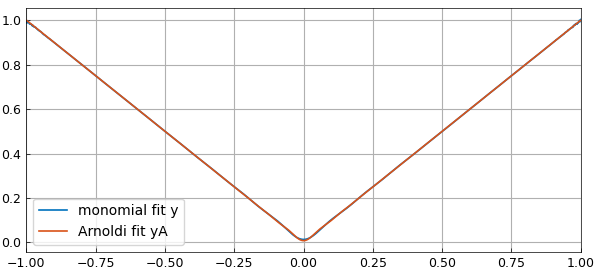
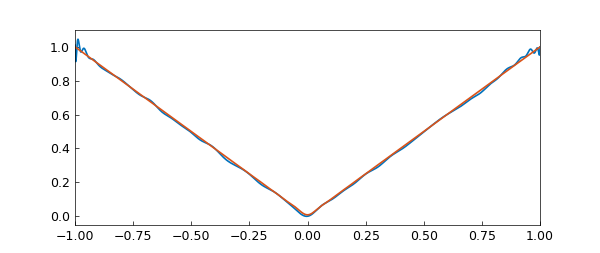
Run full degree80 Vandermonde and Arnoldi source example

diff --git a/examples/linalg/vandermonde_arnoldi.py b/examples/linalg/vandermonde_arnoldi.py
@@ -1,130 +1,111 @@
-"""Vandermonde with Arnoldi.
+"""Vandermonde with Arnoldi: source translation, full degree80.
 
-Translation of linalg/VandermondeArnoldi.m by Nick Trefethen
-(July 2020, after Brubeck-Nakatsukasa-Trefethen, SIAM Review 2021):
-Vandermonde matrices and quasimatrices are exponentially
-ill-conditioned; orthogonalizing on the fly with Arnoldi fixes
-polynomial least-squares fitting without changing the mathematics.
-
+Pablo Brubeck, Yuji Nakatsukasa, and Nick Trefethen, January2020.
+Chebfun7574c77680d7e82b79626300bf255498271a72df;
+example f4b9ea46cfc2f52f20a844627f4a74d0bb10098c.
 Original: https://www.chebfun.org/examples/linalg/VandermondeArnoldi.html
-Copyright by The University of Oxford and The Chebfun Developers.
+Copyright The University of Oxford and The Chebfun Developers.
 """
-import matplotlib
-
-matplotlib.use("Agg")
 import os
 import sys
 
+import jax.numpy as jnp
+import matplotlib
+
+matplotlib.use("Agg")
 import matplotlib.pyplot as plt
-import numpy as np
 
-sys.path.insert(0, os.path.join(os.path.dirname(__file__), '..', '..', 'src'))
+sys.path.insert(0, os.path.join(os.path.dirname(__file__), "..", "..", "src"))
 
-from chebfunjax.plotting import chebfun_style
+import chebfunjax as cj
+from chebfunjax.chebfun1d.chebfun import mldivide
+from chebfunjax.plotting import chebfun_style, matlab_plot
 from chebfunjax.plotting import save_chebfun_figure as _savefig
-from chebfunjax.utils.lebesgue import lebesgue_constant
 from chebfunjax.utils.quadrature import chebpts
 
-chebfun_style()
-_HERE = os.path.dirname(os.path.abspath(__file__))
-_IMG = os.path.join(_HERE, '..', '..', 'docs', 'images', 'linalg')
+_IMG = os.path.join(os.path.dirname(os.path.abspath(__file__)), "..", "..",
+                    "docs", "images", "linalg")
 
 
-# Continuous L2 inner products on [-1,1] realized by 400-point
-# Gauss-Legendre quadrature — exact for polynomials up to degree 799,
-# so every quantity below is the true continuous one.
-_GX, _GW = np.polynomial.legendre.leggauss(400)
+def _scalar(value):
+    # MATLAB one-element numeric assignment versus JAX rank-zero storage.
+    value = jnp.asarray(value)
+    if value.size != 1:
+        raise ValueError("Expected a scalar numeric result")
+    return value.reshape(())
 
 
-def _qm_vals(n):
-    """Value matrix of the monomial quasimatrix x^(0:n-1) on the
-    Gauss grid, and the weight vector."""
-    return _GX[:, None] ** np.arange(n)
+def _ans(value, scientific=True, name="ans"):
+    print(f"{name} =")
+    print(f"   {float(_scalar(value)):.4e}" if scientific
+          else f"    {float(_scalar(value)):.4f}")
 
 
-def _cond_qm(n):
-    A = _qm_vals(n)
-    return np.linalg.cond(np.sqrt(_GW)[:, None] * A)
+def polyfit(x, f, n):
+    A = x ** jnp.arange(n+1)
+    return mldivide(A, f)
+
+
+def polyval(c, s):
+    n = len(c)-1
+    B = s ** jnp.arange(n+1)
+    return B @ c
+
+
+def polyfitA(x, f, n):
+    Q = 1 + 0*x
+    H = jnp.zeros((n+1, n))
+    for k in range(n):
+        q = x * Q.extract_columns(k)
+        for j in range(k+1):
+            H = H.at[j, k].set(_scalar(Q.extract_columns(j).H @ q))
+            q = q - H[j, k] * Q.extract_columns(j)
+        H = H.at[k+1, k].set(_scalar(q.norm()))
+        Q = cj.Chebfun.horzcat([Q, q/H[k+1, k]])
+    return mldivide(Q, f), H
+
+
+def polyvalA(d, H, s):
+    W = 1 + 0*s
+    for k in range(H.shape[1]):
+        w = s * W.extract_columns(k)
+        for j in range(k+1):
+            w = w - H[j, k] * W.extract_columns(j)
+        W = cj.Chebfun.horzcat([W, w/H[k+1, k]])
+    return W @ d
 
 
 def run():
+    chebfun_style()
     os.makedirs(_IMG, exist_ok=True)
-
-    for m in (17, 33):
-        pts = np.asarray(chebpts(m))
-        V = np.vander(pts, increasing=False)
-        print("ans =")
-        print(f"   {np.linalg.cond(V):.4e}")
-    for m in (17, 33):
-        pts = np.asarray(chebpts(m))
-        A = pts[:, None] ** np.arange(m)
-        print("ans =")
-        print(f"   {np.linalg.cond(A):.4e}")
-
-    for m in (17, 33):
-        L = lebesgue_constant(np.asarray(chebpts(m)))
-        print(f"L{m-1} =")
-        print(f"    {float(L):.4f}")
-
-    for m in (17, 33):
-        print("ans =")
-        print(f"   {_cond_qm(m):.4e}")
-    for m in (17, 33):
-        pts = np.linspace(-1, 1, m)
-        print("ans =")
-        print(f"   {np.linalg.cond(np.vander(pts)):.4e}")
-
-    # ill-conditioned monomial least-squares fit of |x|, degree 80
-    n = 80
-    fvals = np.abs(_GX)
-    A = _qm_vals(n + 1)
-    sw = np.sqrt(_GW)
-    Qd, Rd = np.linalg.qr(sw[:, None] * A)
-    c = np.linalg.solve(Rd, Qd.T @ (sw * fvals))
-    xs = np.linspace(-1, 1, 1201)
-    y = (xs[:, None] ** np.arange(n + 1)) @ c
-    print("max(y) =")
-    print(f"    {np.max(y):.4f}")
-    print("norm(c,inf) =")
-    print(f"   {np.max(np.abs(c)):.4e}")
-
-    # Arnoldi version: orthogonalize the powers on the fly in the
-    # same continuous inner product
-    W = np.ones((len(_GX), 1))
-    H = np.zeros((n + 1, n))
-    for k in range(n):
-        q = _GX * W[:, k]
-        for j in range(k + 1):
-            H[j, k] = np.sum(_GW * W[:, j] * q)
-            q = q - H[j, k] * W[:, j]
-        H[k + 1, k] = np.sqrt(np.sum(_GW * q * q))
-        W = np.column_stack([W, q / H[k + 1, k]])
-    # d = Q\\f: weighted least squares (the first Arnoldi
-    # column is the unnormalized constant, as in MATLAB)
-    sww = np.sqrt(_GW)
-    d, *_ = np.linalg.lstsq(sww[:, None] * W, sww * fvals,
-                            rcond=None)
-    # evaluate the Arnoldi basis at plotting points via the recurrence
-    Wx = np.ones((len(xs), 1))
-    for k in range(n):
-        w = xs * Wx[:, k]
-        for j in range(k + 1):
-            w = w - H[j, k] * Wx[:, j]
-        Wx = np.column_stack([Wx, w / H[k + 1, k]])
-    yA = Wx @ d
-    print("yA endpoint values:",
-          f"{yA[0]:.6f} {yA[-1]:.6f}")
-    print("max(yA) =")
-    print(f"    {np.max(yA):.4f}")
-
-    fig, ax = plt.subplots(figsize=(9.0, 4.8))
-    ax.plot(xs, y, lw=1.2, label="monomial fit y")
-    ax.plot(xs, yA, lw=1.2, label="Arnoldi fit yA")
-    ax.legend()
-    ax.grid(True)
-    fig.set_facecolor("white")
-    fig.tight_layout()
-    _savefig(fig, os.path.join(_IMG, "VandermondeArnoldi_01.png"))
+    for count in (17, 33):
+        _ans(jnp.linalg.cond(jnp.vander(chebpts(count))))
+    for count in (17, 33):
+        _ans(jnp.linalg.cond(chebpts(count)[:, None] ** jnp.arange(count)))
+    for count in (17, 33):
+        _, constant = cj.lebesgue(chebpts(count), return_constant=True)
+        _ans(constant, scientific=False, name=f"L{count-1}")
+    x = cj.chebfun("x")
+    for count in (17, 33):
+        _ans(x.vander(count).cond())
+    for count in (17, 33):
+        _ans((x ** jnp.arange(count)).cond())
+    for count in (17, 33):
+        _ans(jnp.linalg.cond(jnp.vander(jnp.linspace(-1., 1., count))))
+    f = abs(x)
+    c = polyfit(x, f, 80)
+    y = polyval(c, x)
+    print("y =")
+    print(repr(y))
+    _ans(y.max()[1], scientific=False)
+    _ans(jnp.linalg.norm(c, ord=jnp.inf))
+    d, H = polyfitA(x, f, 80)
+    yA = polyvalA(d, H, x)
+    print("yA =")
+    print(repr(yA))
+    fig, ax = plt.subplots()
+    matlab_plot(cj.Chebfun.horzcat([y, yA]), ax=ax)
+    _savefig(fig, os.path.join(_IMG, "VandermondeArnoldi_01.png"), size=(600, 253))
     plt.close(fig)
 
 

diff --git a/docs/examples/linalg/VandermondeArnoldi.md b/docs/examples/linalg/VandermondeArnoldi.md
@@ -31,6 +31,8 @@ cond(vander(chebpts(33)))
 ```text
 ans =
    5.4282e+05
+ans =
+   6.8312e+11
 ```
 
 There isn't any real need to call the `vander` command. We could equally well have generated the numbers like this:
@@ -41,8 +43,6 @@ cond(chebpts(33).^(0:32))
 ```
 
 ```text
-ans =
-   6.8312e+11
 ans =
    5.4282e+05
 ans =
@@ -74,6 +74,8 @@ cond(vander(x,33))
 ```text
 ans =
    5.4803e+05
+ans =
+   6.2360e+11
 ```
 
 Again there was no need for the `vander` command:
@@ -84,6 +86,8 @@ cond(x.^(0:32))
 ```
 
 ```text
+ans =
+   5.4803e+05
 ans =
    6.2360e+11
 ```
@@ -98,6 +102,8 @@ cond(vander(linspace(-1,1,33)))
 ```text
 ans =
    9.9831e+06
+ans =
+   5.2719e+14
 ```
 
 If we try to do interpolation or least-squares fitting with these ill-conditioned matrices or quasimatrices, we quickly run into trouble at larger values of $n$. In MATLAB, the traditional codes for computing a polynomial and then evaluating it are `polyfit` and `polyval`, whose essences (with the columns ordered by increasing degrees) look like this:
@@ -125,6 +131,14 @@ c = polyfit(x,f,80);
 y = polyval(c,x)
 ```
 
+```text
+y =
+   chebfun column (1 smooth piece)
+       interval       length     endpoint values
+[      -1,       1]       69         1        1
+vertical scale =   1
+```
+
 We'll plot the result in a moment. But here's a sign that it's not good: the maximum is much bigger than $1$:
 
 ```matlab
@@ -133,14 +147,7 @@ max(y)
 
 ```text
 ans =
-   5.2609e+14
-max(y) =
-    1.0032
-norm(c,inf) =
-   1.0447e+13
-yA endpoint values: 0.998935 0.998935
-max(yA) =
-    0.9989
+    1.0450
 ```
 
 The reason is that the coefficients $c$ are huge because the basis is so ill-conditioned, and cancellation has destroyed the accuracy:
@@ -150,7 +157,8 @@ norm(c,inf)
 ```
 
 ```text
-
+ans =
+   1.0862e+14
 ```
 
 ## 3. Vandermonde with Arnoldi
@@ -207,7 +215,11 @@ plot([y yA])
 ```
 
 ```text
-
+yA =
+   chebfun column (1 smooth piece)
+       interval       length     endpoint values
+[      -1,       1]       81         1        1
+vertical scale =   1
 ```
 
 ![VandermondeArnoldi figure 01](../../images/linalg/VandermondeArnoldi_01.png)

diff --git a/HANDOFF_CODEX.md b/HANDOFF_CODEX.md
@@ -1,5 +1,26 @@
 # chebfunjax: handoff to a Codex agent (2026-10-02)
 
+## Full original degree80 Vandermonde/Arnoldi execution (2026-10-09)
+
+The example now uses actual public Chebfun powers, continuous least squares,
+all80 literal Arnoldi iterations and an independent80-step evaluation recurrence.
+All12 preamble outputs plus14 total scalars, both81-column arrays and81x80 H
+were captured from the original source order. Source body369.30s CPU-only,
+peak4.93GiB, terminal0/stable/no survivors; root rehashed2967 observed files.
+The fresh600x253 figure and all output fences come from that run. Published
+prose/MATLAB cells are preserved; previously scrambled output cells are repaired.
+
+This replaces the sampled surrogate but does NOT establish page parity.
+Ill-conditioned monomial max is1.0450 versus cached MATLAB1.5596; coefficient
+infinity norm1.0862e14 versus3.5308e14. Several condition numbers and the native
+near-singular warning also differ. The stable yA display matches cached text,
+but source computations/figure pixels still need numerical/reference review.
+Root viewed both images: same canvas size, different oscillations, axes/ticks
+and framing. No source coefficients or limits were fitted to the reference.
+Evidence: vandermonde_full80_root_{runtime,source}_review_20261009.json and
+vandermonde_full80_source_20261009/{full80_v2,payload_manifest_v2.json}.
+
+
 ## Source-derived opt-in figure layout (2026-10-09)
 
 The single-axes `matlab_axes_layout` helper and
